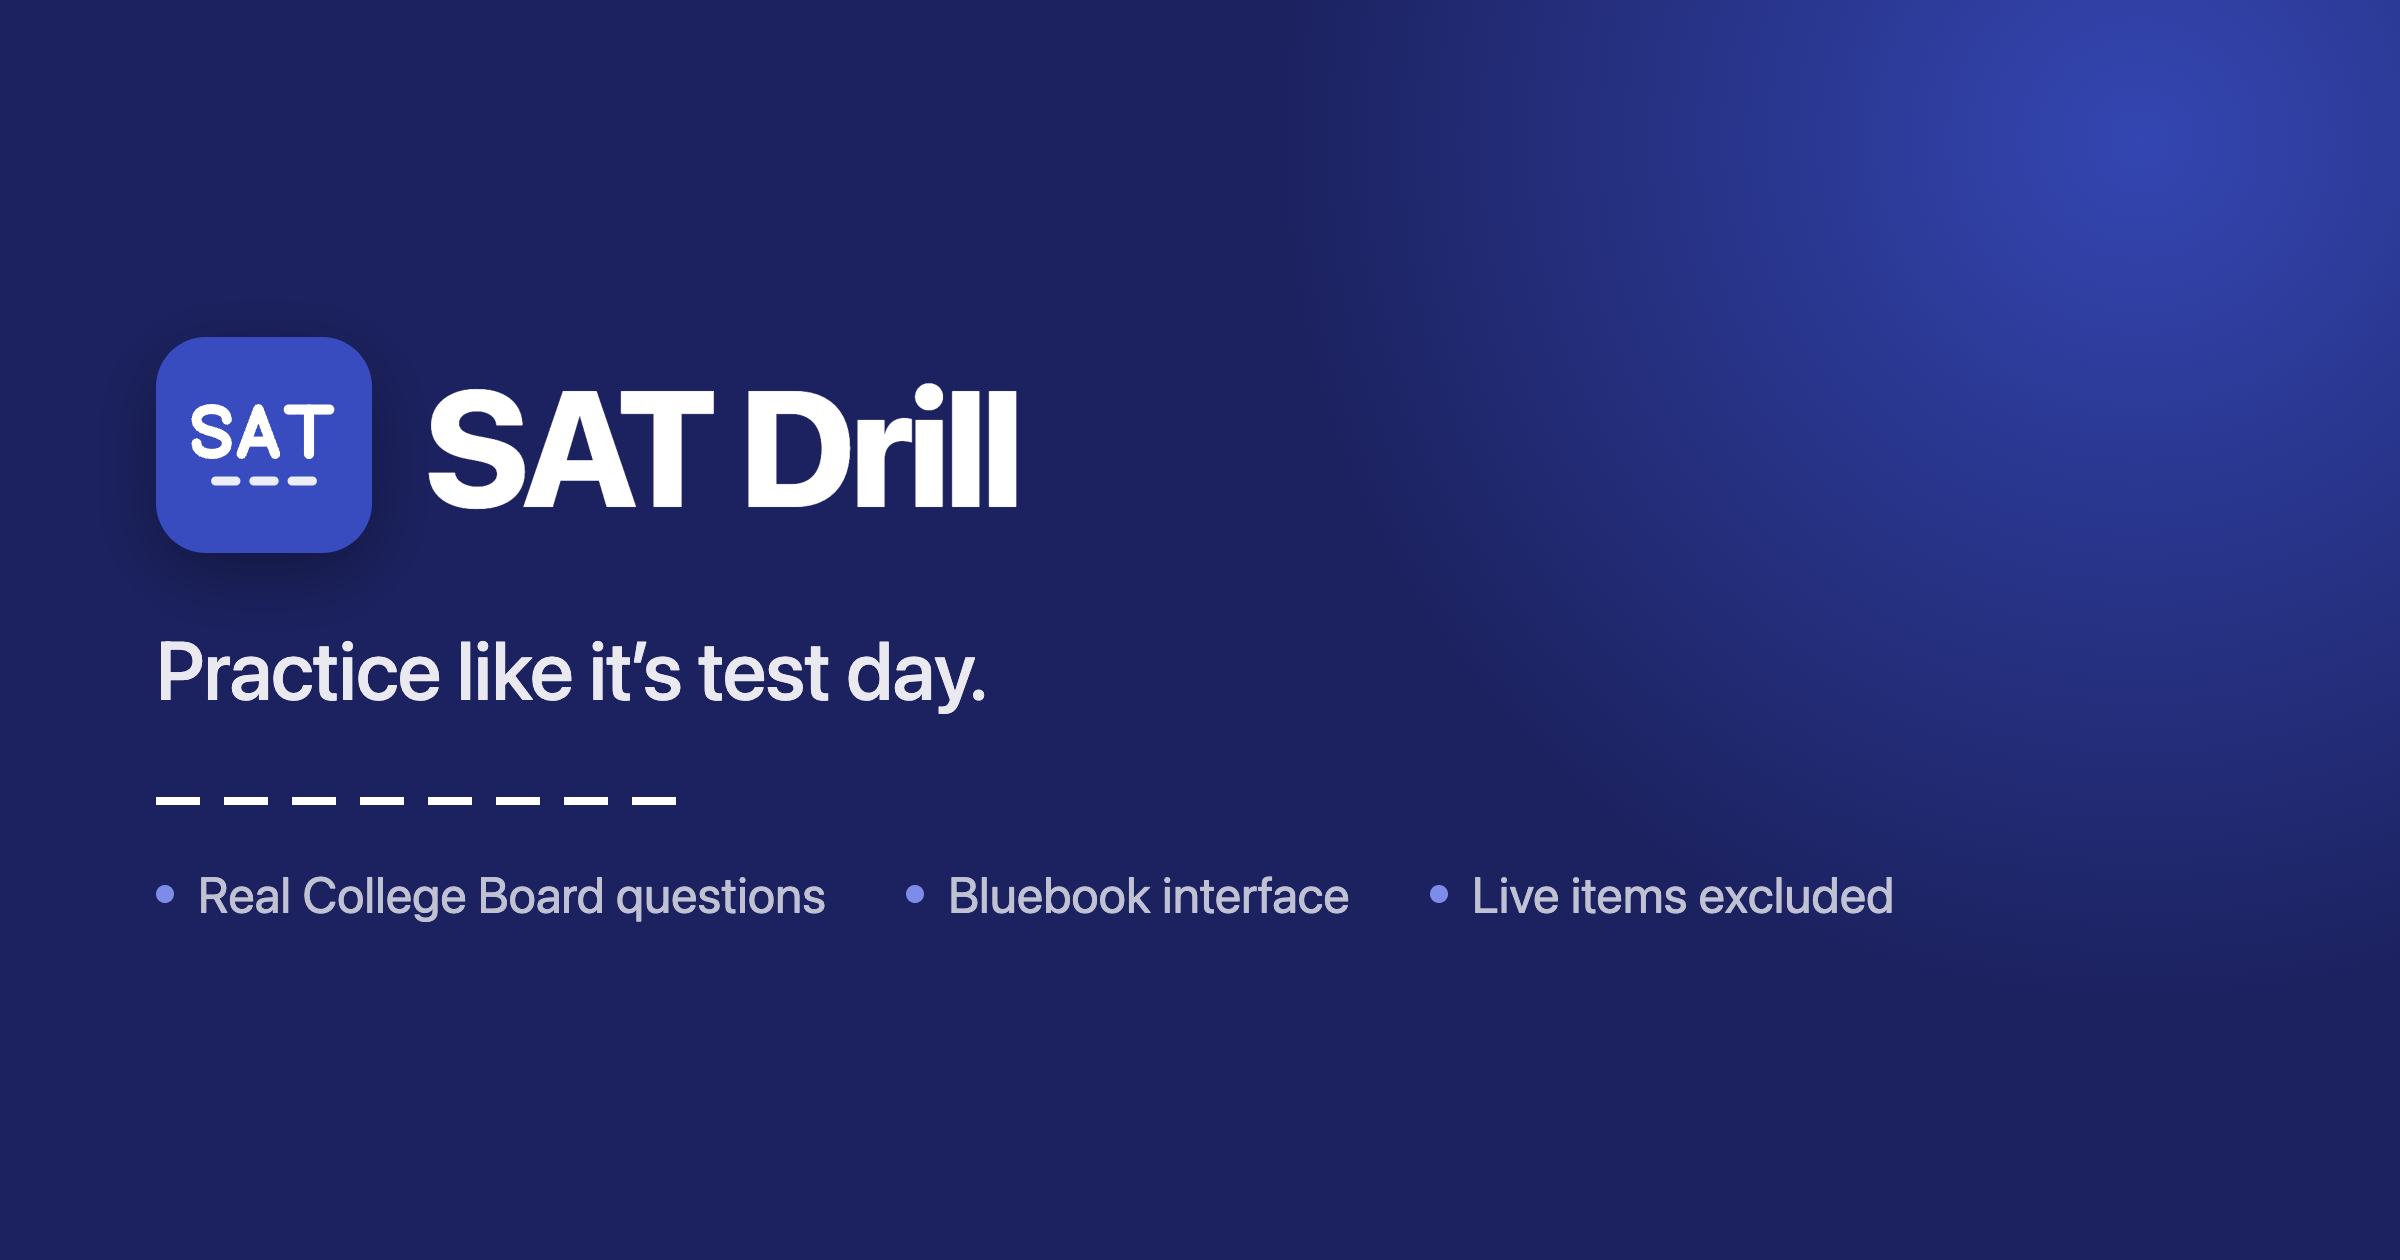
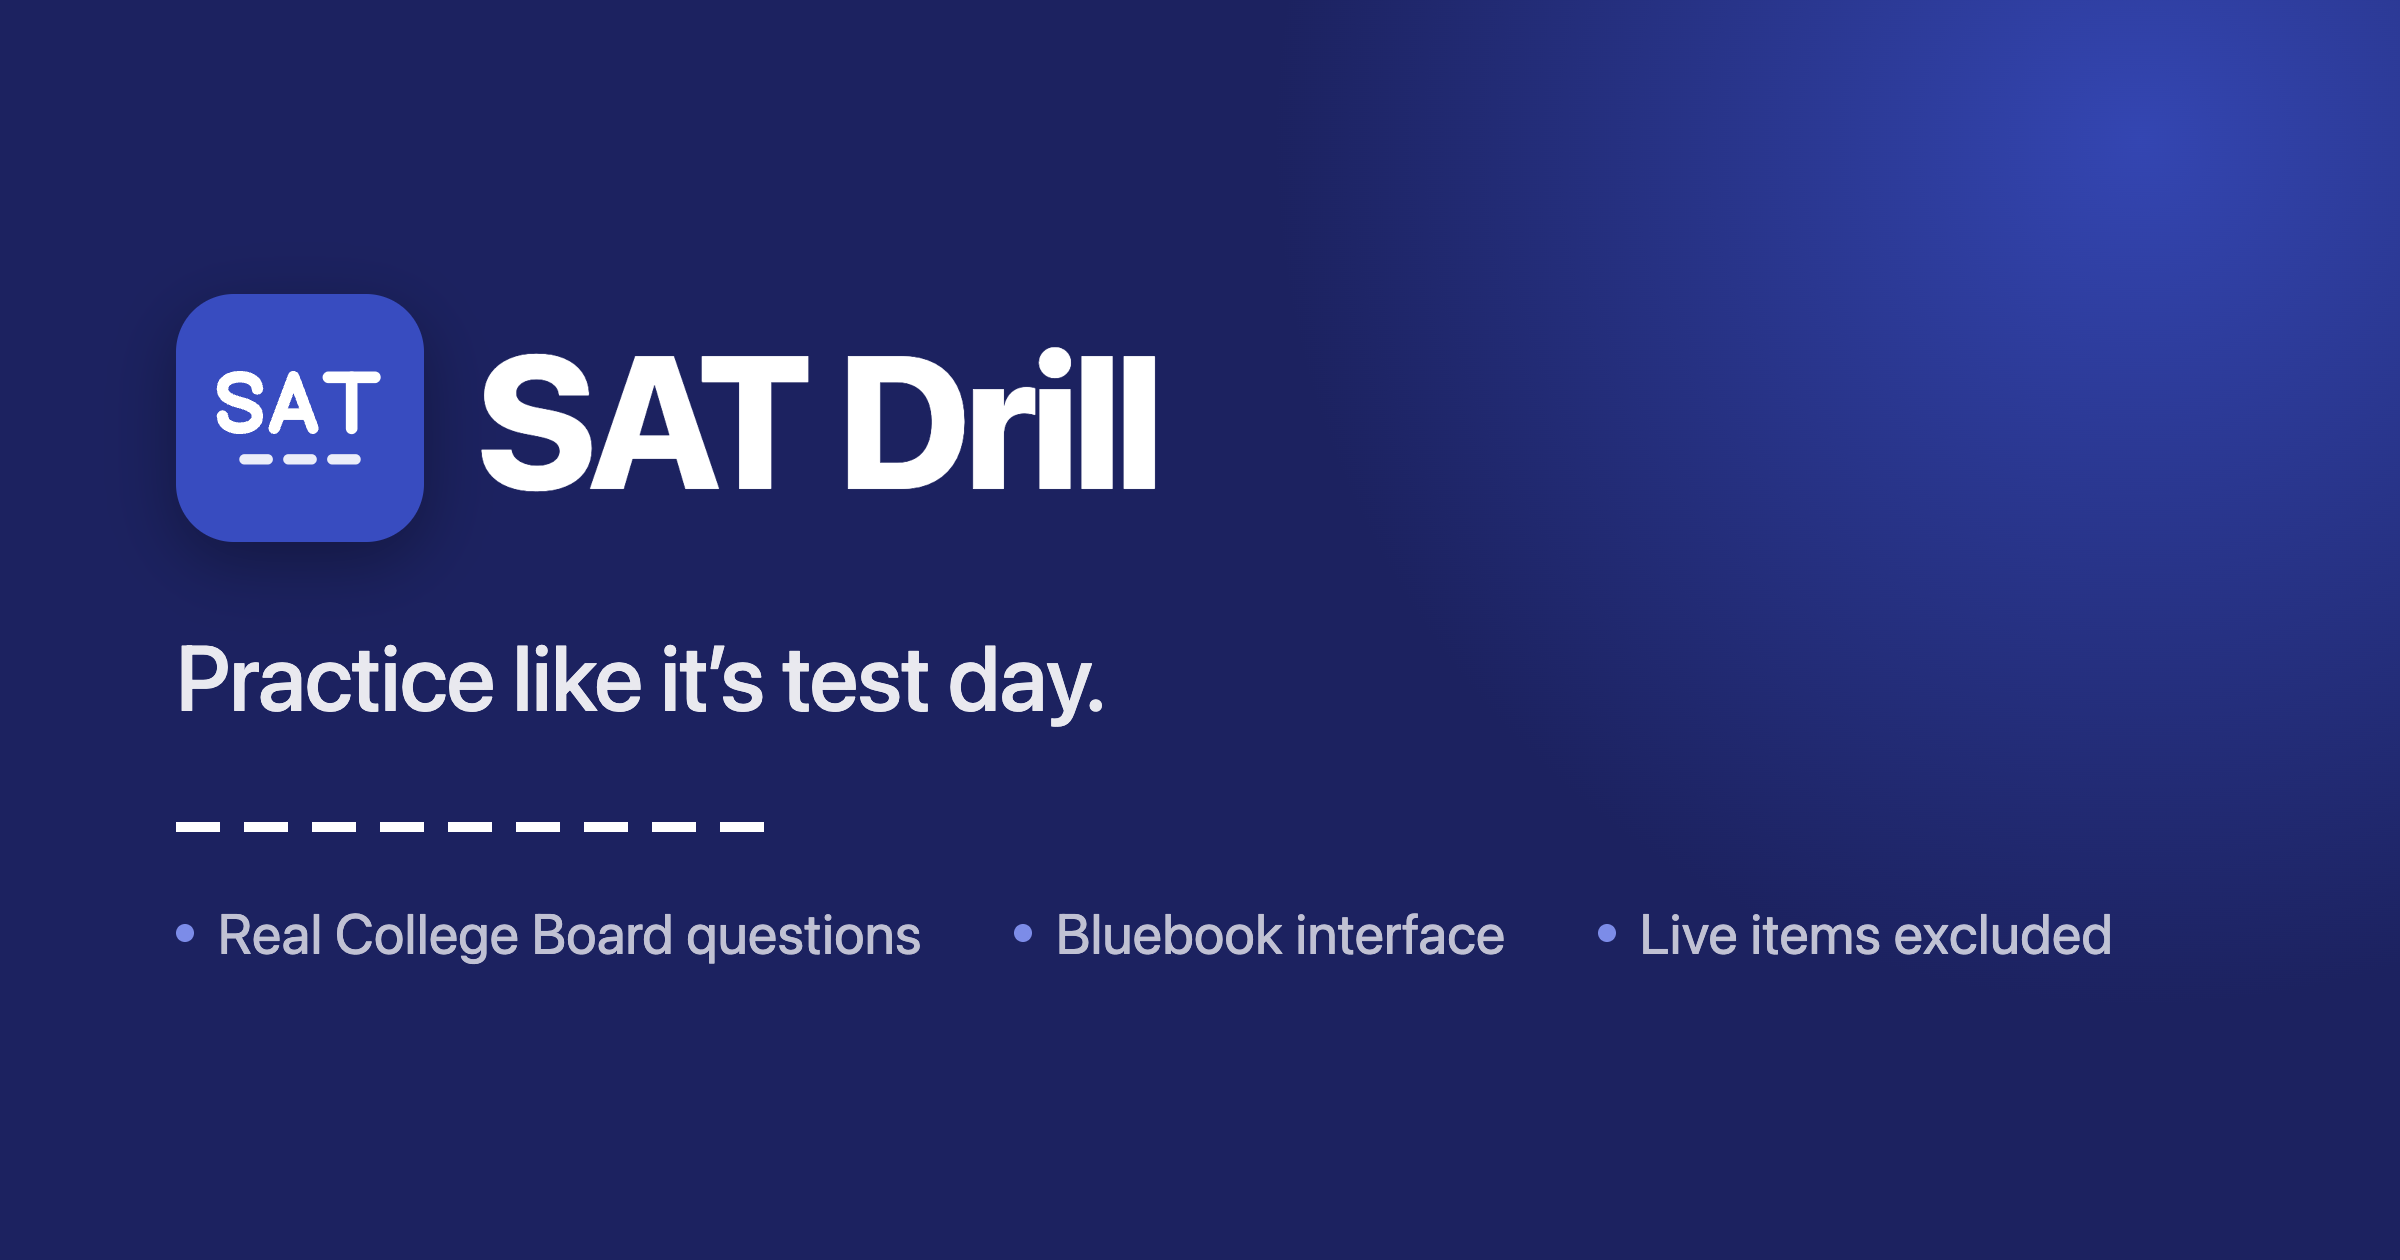
preview

Changed region(s): [[0.0625, 0.619, 0.875, 0.7738], [0.0625, 0.2167, 0.5, 0.4643], [0.0625, 0.4952, 0.4688, 0.5881]]

diff --git a/scripts/og-card.html b/scripts/og-card.html
@@ -12,7 +12,7 @@
         display: flex;
         flex-direction: column;
         justify-content: center;
-        padding: 0 78px;
+        padding: 0 88px;
         position: relative;
         overflow: hidden;
       }
@@ -26,25 +26,25 @@
       }
       .row { display: flex; align-items: center; gap: 26px; position: relative; }
       .plaque {
-        width: 108px; height: 108px; border-radius: 25px;
+        width: 124px; height: 124px; border-radius: 29px;
         background: #384cc0; display: flex; align-items: center; justify-content: center;
         box-shadow: 0 10px 34px rgba(0,0,0,.32);
         flex-shrink: 0;
       }
-      h1 { font-size: 82px; font-weight: 800; letter-spacing: -.03em; line-height: 1; }
+      h1 { font-size: 94px; font-weight: 800; letter-spacing: -.03em; line-height: 1; }
       .tagline {
         position: relative;
-        margin-top: 34px;
-        font-size: 41px; font-weight: 500; letter-spacing: -.015em;
+        margin-top: 40px;
+        font-size: 46px; font-weight: 500; letter-spacing: -.015em;
         color: rgba(255,255,255,.9);
       }
       .rule {
         position: relative;
-        margin: 40px 0 30px;
-        height: 4px; width: 260px;
+        margin: 46px 0 34px;
+        height: 5px; width: 300px;
         background: repeating-linear-gradient(to right, #fff 0 22px, transparent 22px 34px);
       }
-      .facts { position: relative; display: flex; gap: 40px; font-size: 25px; color: rgba(255,255,255,.72); }
+      .facts { position: relative; display: flex; gap: 46px; font-size: 28px; color: rgba(255,255,255,.72); }
       .facts span { display: flex; align-items: center; gap: 12px; }
       .dot { width: 9px; height: 9px; border-radius: 50%; background: #7c8ce8; }
     </style>
@@ -52,7 +52,7 @@
   <body>
     <div class="row">
       <div class="plaque">
-        <svg viewBox="0 0 96 96" width="108" height="108">
+        <svg viewBox="0 0 96 96" width="124" height="124">
           <g fill="none" stroke="#fff" stroke-width="9" stroke-linecap="round" stroke-linejoin="round"
              transform="translate(15 30) scale(0.5)">
             <path d="M33 13.5C33 7.5 27 4 19.5 4S6 7.5 6 13.5s6 8.5 13.5 10.5S33 28.5 33 34.5 27 44 19.5 44 6 40.5 6 34.5"/>
